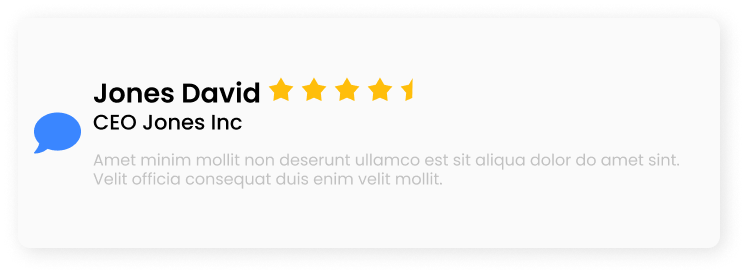
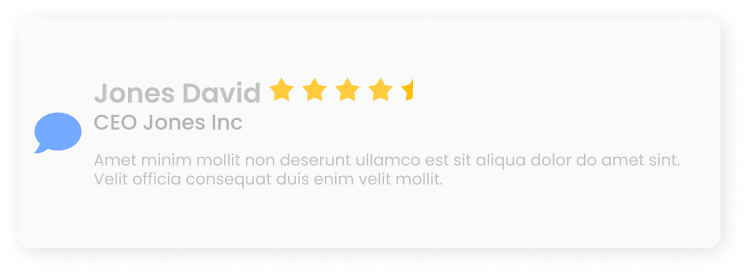
Home work 05. In a progress

Changed region(s): [[0.1233, 0.292, 0.5241, 0.3796], [0.0308, 0.4088, 0.3391, 0.5547]]

diff --git a/HomeWork 05/styles/style.css b/HomeWork 05/styles/style.css
@@ -34,7 +34,8 @@ h4,
 h5{
     font-size: 21px;
   }
-p{
+p,
+.reviews{
     font-size: 16px;
     font-weight: 400;
     color: #575757;
@@ -96,12 +97,15 @@ a:hover{
 .mobile,
 .authors,
 .opinions,
+.img-over,
 .a-title,
 .forWhoTitle,
 .users,
 .s-title,
 .h-demo,
 .disscount,
+.mail,
+.waiting,
 h3,h4,h5,
 p{
     margin: 0 auto;
@@ -129,8 +133,6 @@ button{
 .iphone{
     float: right;
     margin: 119px -50px 0 0;
-    /* margin-top: 120px;
-    margin-left: 48px;   */
 }
 
 .buttonAuthors,
@@ -148,7 +150,6 @@ button{
     margin-right: 24px;
 }
 .buttonCheck{
-    /* color: #575757; */
     background-color: #fff;
     border: none;
     outline: 1px solid #575757;
@@ -158,7 +159,8 @@ button{
 .forWho,
 .demo,
 .opinions,
-.startWith{
+.startWith,
+.waitingQuestion{
     text-align: center;
 }
 .authors{
@@ -194,16 +196,17 @@ button{
 .demoInfo,
 .think,
 .jones-info,
-.user-left{
+.user-left,
+.phoneOrder{
     float: left;
 }
 .list{
     text-align: left;
     margin: 7px 73px 7px 0;
+    padding-left: 18px;
 }
 .list,
 .demoIntro,
-.arrow,
 .user-right{
     float: right; 
 }
@@ -219,9 +222,19 @@ button{
 .mark{
     margin-bottom: 8px;
 }
-.arrow{
-    margin-top: 80px;
-    margin-right: 8px;
+.mark{
+    position: relative;
+    
+}
+.mark>h4::before{
+    content: "";
+    display: block;
+    width: 11px;
+    height: 16px;
+    background-image: url('../img/arrow.png');
+    position: absolute;
+    left: -18px;
+    top: 15px;
 }
 
 .forWho{
@@ -283,7 +296,7 @@ p.white{
 .opinions{
     background-color: #FFBE0B;
     padding: 67px 0;
-    overflow: hidden;
+
 }
 .o-title>h3{
     padding-bottom: 12px;
@@ -291,23 +304,84 @@ p.white{
 .o-title>p{
     padding-bottom: 42px;
 }
-
-.jones{
-    background-color: #fff;
+.img-over{
+    width: 1270px;
+    overflow: hidden;
 }
 .jones{
     width: 702px;
-    height: 230px;
     margin: 0 auto;
     background-color: #fff;
     border-radius: 12px;
     text-align: left;
-    padding: 59.5px 0;
+    padding: 59px 0 59px 74px;
+    position: relative;
+    display: inline-block;
+}
+.jones::before{
+    content: "";
+    display: block;
+    width: 702px;
+    height: 230px;
+    background-image: url('../img/FrameRate.png');
+    position: absolute;
+    bottom: 0;
+    border-radius: 12px;
+    right: 735px;
+    
+}
+.jones::after{
+    content: "";
+    display: block;
+    width: 702px;
+    height: 230px;
+    background-image: url('../img/FrameRate.png');
+    position: absolute;
+    left: 735px;
+    bottom: 0;
+    border-radius: 12px;
 }
 
+
+.jones-info>h5{
+    margin-bottom: 16px;
+}
+.jones-info>h4{
+    display: inline-block;
+}
+.jones-info{
+    position: relative;
+   
+}
+.jones-info>h4::before{
+    content: "";
+    display: block;
+    width: 47px;
+    height: 41px;
+    background-image: url('../img/think.png');
+    position: absolute;
+    left: -59px;
+    top: 34px;
+}
+.jones-info>h4::after{
+    content: "";
+    display: block;
+    width: 158px;
+    height: 26px;
+    background-image: url('../img/stars.png');
+    position: absolute;
+    top: 0;
+    left: 175px;
+}
 .startWith{
     width: 951px;
     margin: 89px auto 104px;
+}
+.s-title{
+    margin-bottom: 74px;
+}
+.phoneOrder{
+    margin-right: 13px;
 }
 .phoneOrder>img{
     width: 327px;
@@ -315,12 +389,33 @@ p.white{
 }
 .product{
     margin: 74px auto;
+    padding-top: 74px;
     text-align: left;
     
+}
+.productTitle{
+    margin: 16px 0;
 }
 .blue{
     color: #2203E4;
     margin: 16px auto;
+}
+.reviews{
+    color: black;
+    position: relative;
+    display: inline-block;
+    padding-left: 158px;
+    
+}
+.reviews::before{
+    content: "";
+    display: block;
+    width: 158px;
+    height: 26px;
+    /* background-color: blueviolet; */
+    background-image: url('../img/stars.png');
+    position: absolute;
+    left: 0;
 }
 .addTo{
     margin-top: 16px;
@@ -331,9 +426,8 @@ p.white{
 .waiting{
     width: 508px;
 }
-.emailField{
-    margin-top: 28px;
-    margin-bottom: 14px;
+.waitingQuestion>h4{
+    margin-bottom: 28px;
 }
 .mail{
     height: 70px;
@@ -347,7 +441,4 @@ p.white{
     color: #2203E4;
     font-size: 16px;
     font-weight: 400;
-}
-.waiting{
-    margin: 0 auto;
 }

diff --git a/HomeWork 05/index.html b/HomeWork 05/index.html
@@ -102,9 +102,9 @@
                 <p>Analyst</p>
             </div>
         </div>
-        <div class="arrow">
+        <!-- <div class="arrow">
             <img src="img/arrow.png" alt="arrow">
-        </div>
+        </div> -->
 
     </section>
 
@@ -201,30 +201,19 @@
     </section>
 
     <section class="opinions">
-        <div class="o-title">
-            <h3 class="h-demo">Opinions</h3>
-            <p>Amet minim mollit non deserunt ullamco est sit aliqua dolor do amet sint. <br> Velit officia consequat duis enim velit mollit.</p>
-        </div>
-
-        <div class="rate">
-            <div class="jones-left">
-                <img src="img/FrameRate.png" alt="rate">
+        <div class="img-over">
+            <div class="o-title">
+                <h3 class="h-demo">Opinions</h3>
+                <p>Amet minim mollit non deserunt ullamco est sit aliqua dolor do amet sint. <br> Velit officia consequat duis enim velit mollit.</p>
             </div>
-            
-            <div class="jones">
-                <div class="think">
-                    <img src="img/think.png" alt="think">
-                </div>
+            <div class="jones">  
                 <div class="jones-info">
                     <h4>Jones David</h4>
                     <h5>CEO Jones Inc</h5>
                     <p>Amet minim mollit non deserunt ullamco est sit aliqua dolor do amet sint. <br> Velit officia consequat duis enim velit mollit.</p>
                 </div>
-                <div class="jones-righ">
-                    <img src="img/FrameRate.png" alt="rate">
-                </div>
+            </div>
         </div>
-        
     </section>
 
     <section class="startWith">
@@ -242,8 +231,11 @@
         </div>
 
         <div class="product">
+            <div class="rate">
+                <p class="reviews">203 reviews</p>
+            </div>
             <div class="blue">
-                <h3>My product title</h3>
+                <h3 class="productTitle">My product title</h3>
             </div>
             <div>
                 <p>Amet minim mollit non deserunt ullamco est sit aliqua dolor do amet sint.</p>
@@ -255,7 +247,7 @@
         </div>
         
         <div class="disscount">
-            <div>
+            <div class="waitingQuestion">
                  <h4>Waitingnt for discount?</h4>
             </div>
            
